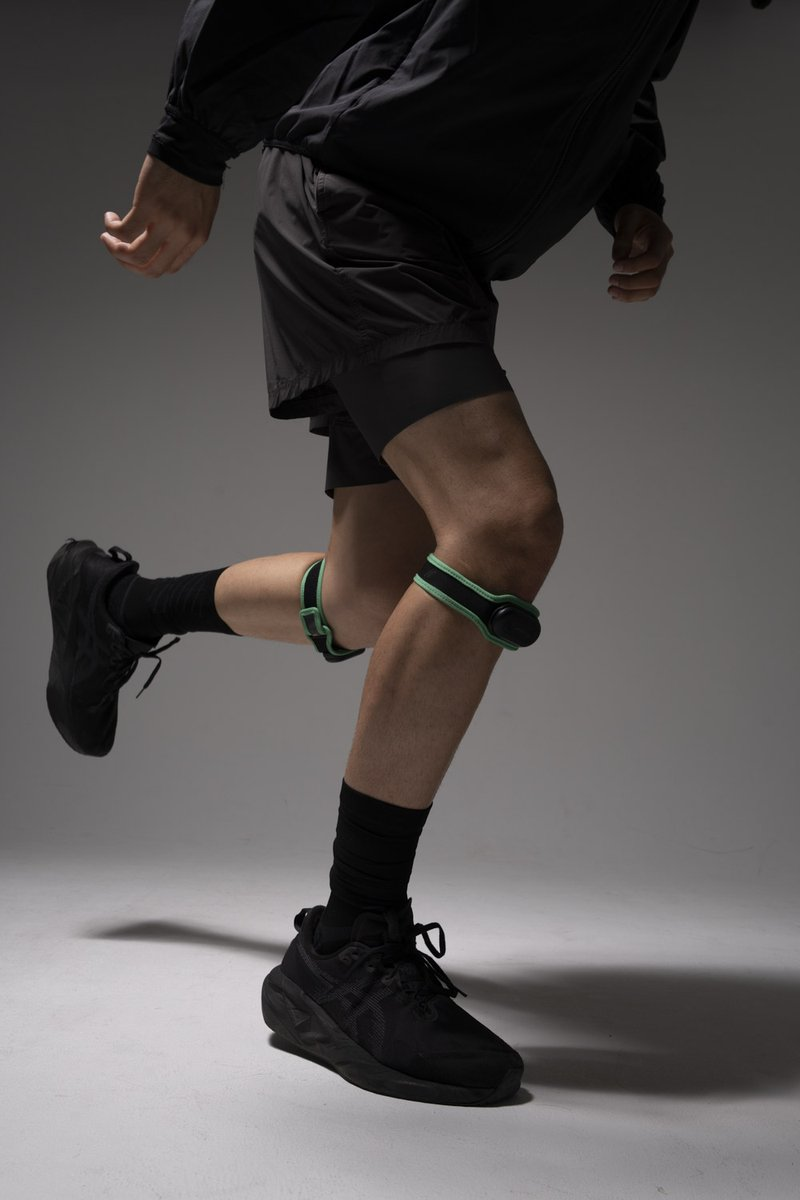
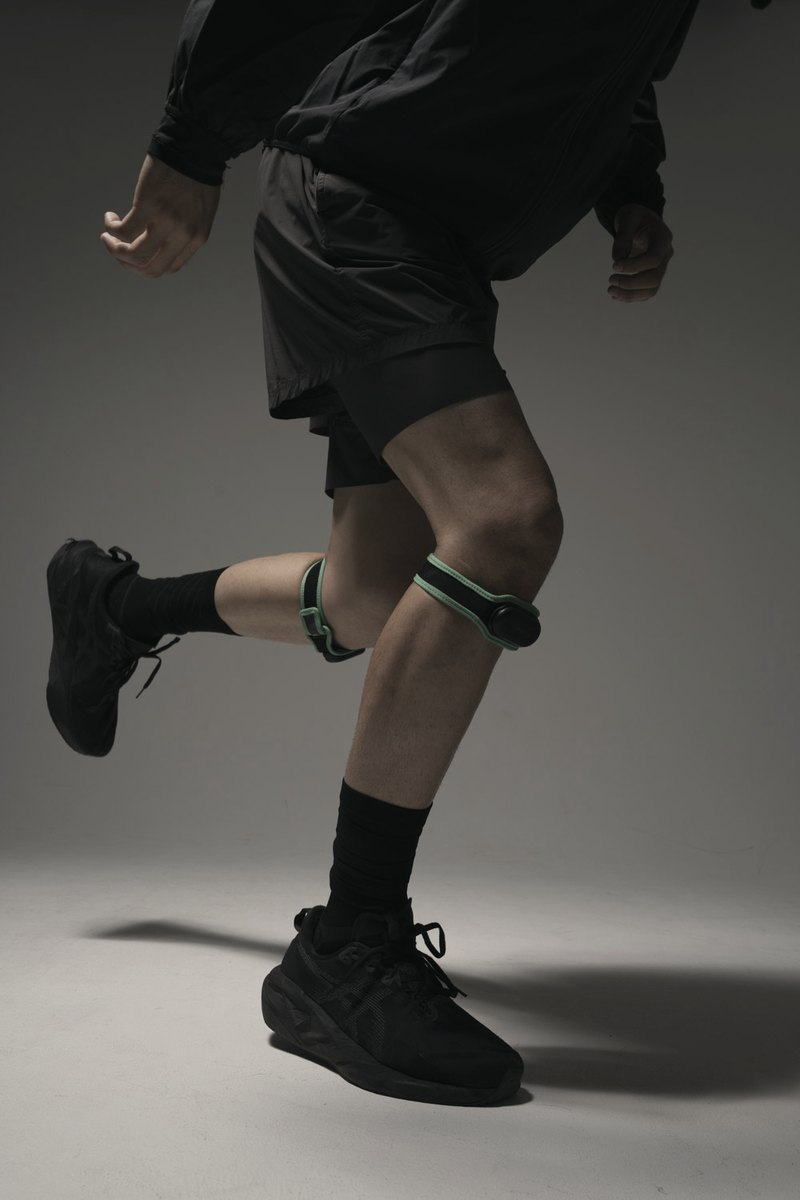
Hero mosaic: SOVAC lead photo, uncropped ratios, unified color grade
Claude-Session: https://claude.ai/code/session_01873AvyyYuX9U25gxc1DgWo

Changed region(s): [[0.0, 0.8017, 0.3438, 0.925], [0.3438, 0.4625, 0.375, 0.4933], [0.2812, 0.4625, 0.3125, 0.4933]]

diff --git a/index.html b/index.html
@@ -303,7 +303,7 @@
   /* 첫 화면 사진 모음 */
   .sr-only{position:absolute; width:1px; height:1px; overflow:hidden; clip:rect(0 0 0 0); white-space:nowrap}
   .hero .hero-body{padding-top:40px}
-  .mosaic{display:grid; grid-template-columns:1.25fr .75fr .8fr; grid-template-rows:1.3fr 1fr; gap:10px; height:clamp(460px,64vh,660px)}
+  .mosaic{display:grid; grid-template-columns:519.08fr 168.65fr 436.27fr; grid-template-rows:391.45fr 252.96fr; gap:10px; aspect-ratio:1144/654.41}
   .tile{position:relative; margin:0; overflow:hidden; border-radius:4px; background:#0d0e10}
   .tile img{width:100%; height:100%; object-fit:cover; display:block; transition:transform 1.2s cubic-bezier(.2,.7,.2,1)}
   .tile:hover img{transform:scale(1.03)}
@@ -311,23 +311,19 @@
   .tile figcaption b{font-size:13px; font-weight:800; letter-spacing:.14em; color:var(--volt)}
   .tile figcaption small{font-size:12px; color:#C9CBD1}
   .t-int{grid-column:1 / 3; grid-row:1}
-  .t-int img{object-position:50% 22%}
   .t-run{grid-column:3; grid-row:1 / 3}
-  .t-run img{object-position:46% 50%}
-  .t-run::after{content:""; position:absolute; inset:auto 0 0 0; height:30%; background:linear-gradient(to top,rgba(0,0,0,.6),rgba(0,0,0,0)); pointer-events:none}
+  .t-run::after{content:""; position:absolute; inset:auto 0 0 0; height:30%; background:linear-gradient(to top,rgba(0,0,0,.55),rgba(0,0,0,0)); pointer-events:none}
   .t-box{grid-column:1; grid-row:2}
-  .t-box img{object-position:50% 45%}
-  .t-hand{grid-column:2; grid-row:2; background:#e9e9ea}
-  .t-hand img{object-position:50% 30%; filter:brightness(.94)}
+  .t-hand{grid-column:2; grid-row:2}
   .hero .facts{grid-template-columns:repeat(4,minmax(0,1fr)); margin-top:30px; padding-top:22px; border-top:1px solid #1f2125}
   @media (max-width:900px){
     .hero .hero-body{padding-top:24px}
-    .mosaic{grid-template-columns:1fr 1fr; grid-template-rows:none; height:auto}
-    .t-int{grid-column:1 / -1; grid-row:auto; aspect-ratio:16/9}
-    .t-run,.t-hand{grid-column:auto; grid-row:auto; aspect-ratio:3/4}
+    .mosaic{grid-template-columns:1fr 1fr; grid-template-rows:none; aspect-ratio:auto}
+    .t-int{grid-column:1 / -1; grid-row:auto; aspect-ratio:1400/785}
+    .t-run,.t-hand{grid-column:auto; grid-row:auto; aspect-ratio:2/3}
     .t-hand{order:2}
     .t-run{order:3}
-    .t-box{grid-column:1 / -1; grid-row:auto; order:4; aspect-ratio:16/9}
+    .t-box{grid-column:1 / -1; grid-row:auto; order:4; aspect-ratio:1100/536}
     .hero .facts{grid-template-columns:1fr; margin-top:28px}
   }
   /* 미디어 · 연구 */
@@ -454,7 +450,7 @@
       <h1 class="sr-only">유중경 · 걸음 읽어주는 사람</h1>
       <div class="mosaic">
         <figure class="tile t-int">
-          <img src="img/top-spark-interview.jpg" width="1180" height="690" alt="SK하이닉스 영상에서 인터뷰하는 유중경 피지오 대표, SK하이닉스 청년창업파크 SPARK 참여기업">
+          <img src="img/top-sovac.jpg" width="1400" height="785" alt="SOVAC 연단에서 예방 AI 기반 지역 돌봄 사례를 발표하는 유중경 피지오 대표">
         </figure>
         <figure class="tile t-run">
           <img src="img/top-kneech-run.jpg" width="800" height="1200" alt="무릎에 KNEECH 센서를 차고 달리는 러너">
